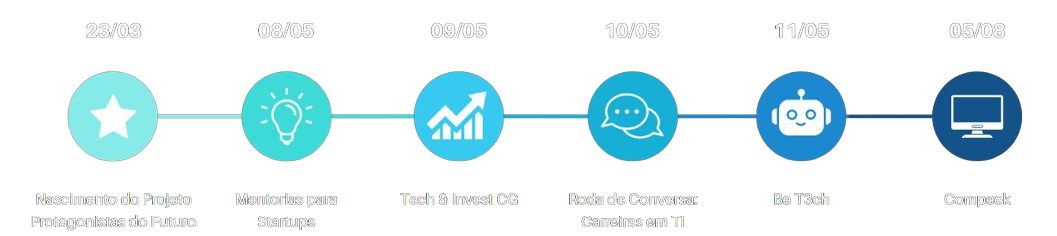
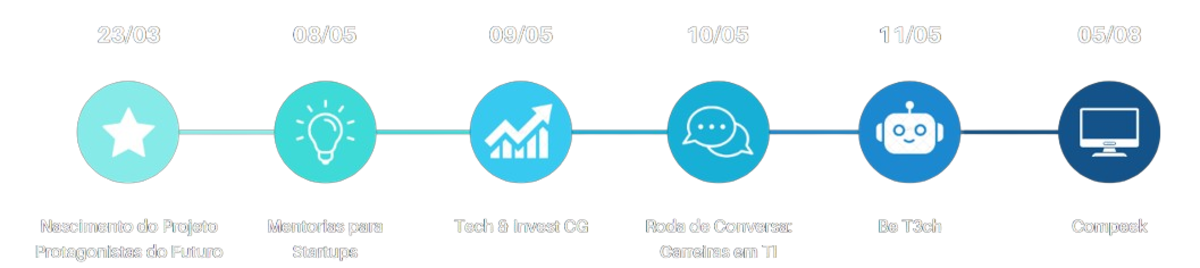
update: aumenta tamanho das fotos

diff --git a/home/index.html b/home/index.html
@@ -79,17 +79,17 @@
         <p class="display-5 theme-black" style="margin-top: 20px;">O que fazemos?</p>
         <div class="container-fluid text-center container-do">
           <div class="container" style="margin-top: 10px;">
-            <img src="imagens/picture1.png" alt="picture1" style="width: 50%;">
+            <img src="imagens/picture1.png" alt="picture1" style="width: 60%;">
             <p class="fs-2" style="margin-top: 10px;">Eventos</p>
             <p class="fs-4 theme-black">Realização de eventos, incluindo rodas de conversas, palestras e workshops que envolvam empresas, governo e a comunidade acadêmica</p>
           </div>
           <div class="container" style="margin-top: 10px;">
-            <img src="imagens/picture2.png" alt="picture1" style="width: 50%;">
+            <img src="imagens/picture2.png" alt="picture1" style="width: 60%;">
             <p class="fs-2" style="margin-top: 10px;">Desenvolvimento de carreira</p>
             <p class="fs-4 theme-black">Preparação e mentorias para oportunidades de crescimento em carreiras de TI</p>
           </div>
           <div class="container" style="margin-top: 10px;">
-            <img src="imagens/picture3.png" alt="picture1" style="width: 50%;">
+            <img src="imagens/picture3.png" alt="picture1" style="width: 60%;">
             <p class="fs-2" style="margin-top: 10px;">Capacitação</p>
             <p class="fs-4 theme-black">Orientação e lapidação conjunta
               de conhecimentos técnicos e habilidades interpessoais</p>
@@ -102,7 +102,7 @@
       <div class="container-fluid text-center container-background4">
         <p class="display-5 theme-white" style="margin-top: 20px;">Timeline</p>
         <p class="fs-4 theme-white">Acompanhe a nossa trajetória</p>
-        <div class="container" style="margin-top: 10%; justify-content: center; align-items: center;">
+        <div class="container" style="margin-top: 6%; justify-content: center; align-items: center;">
           <img src="imagens/timeline.png" alt="timeline" class="img-fluid">
         </div>
       </div>
